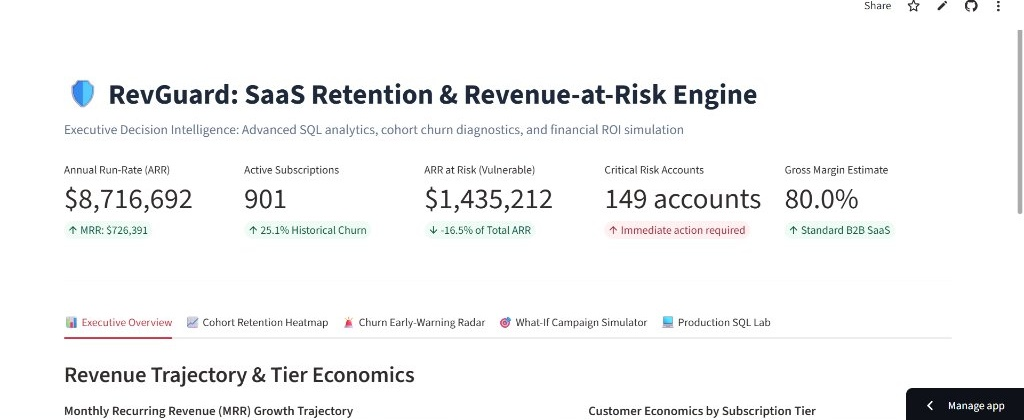
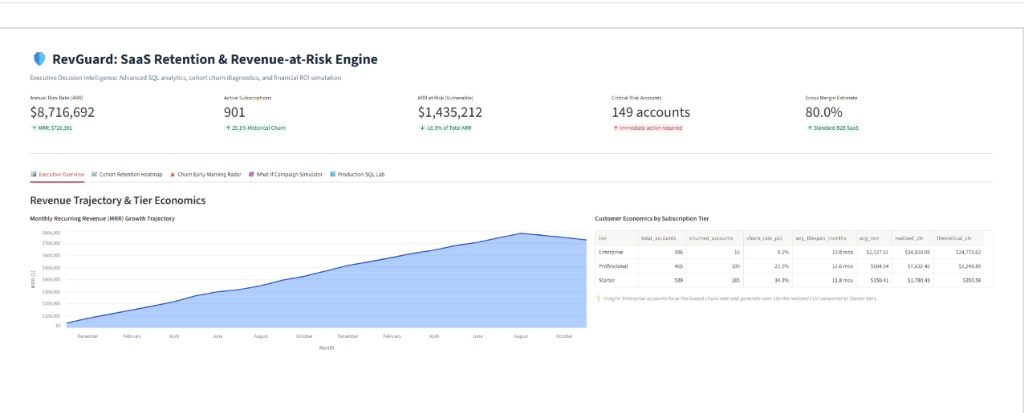
docs: Add high-resolution feature screenshots for all 5 dashboard modules

diff --git a/README.md b/README.md
@@ -89,11 +89,19 @@ In high-growth B2B SaaS companies, **customer churn is the silent killer of Annu
 * Visualizes month-over-month customer retention and Net Dollar Retention (NDR) from Month 0 to Month 12.
 * Pinpoints Month 2–3 as the primary friction window (promotional expiry).
 
+<div align="center">
+  <img src="assets/cohort_heatmap.png" alt="Triangular Cohort Retention Heatmap" width="100%">
+</div>
+
 ### 2. 🚨 Churn Early-Warning Radar
 * Filters accounts by **Composite Risk Score**:
   * **Critical Risk:** Health score < 40, login drop > 50%, or negative CSAT.
   * **High Risk:** Health score 40–60 with declining seat utilization.
 * Generates an actionable CSV export for the Customer Success Management (CSM) team.
+
+<div align="center">
+  <img src="assets/churn_radar.png" alt="Churn Early-Warning Radar" width="100%">
+</div>
 
 ### 3. 🎯 What-If Retention Campaign Simulator
 * Allows executives to adjust:
@@ -103,8 +111,16 @@ In high-growth B2B SaaS companies, **customer churn is the silent killer of Annu
   * **Expected Win-Back Rate:** 5% to 60%.
 * Outputs: **Total Budget**, **Gross ARR Preserved**, **Net Saved Revenue**, **ROI %**, and **Payback Period in Months**.
 
+<div align="center">
+  <img src="assets/whatif_simulator.png" alt="What-If Retention Campaign Simulator" width="100%">
+</div>
+
 ### 4. 💻 Production SQL Lab
 * Allows technical recruiters and hiring managers to inspect and execute the production SQL queries directly within the application.
+
+<div align="center">
+  <img src="assets/production_sql.png" alt="Production SQL Lab" width="100%">
+</div>
 
 ---
 
